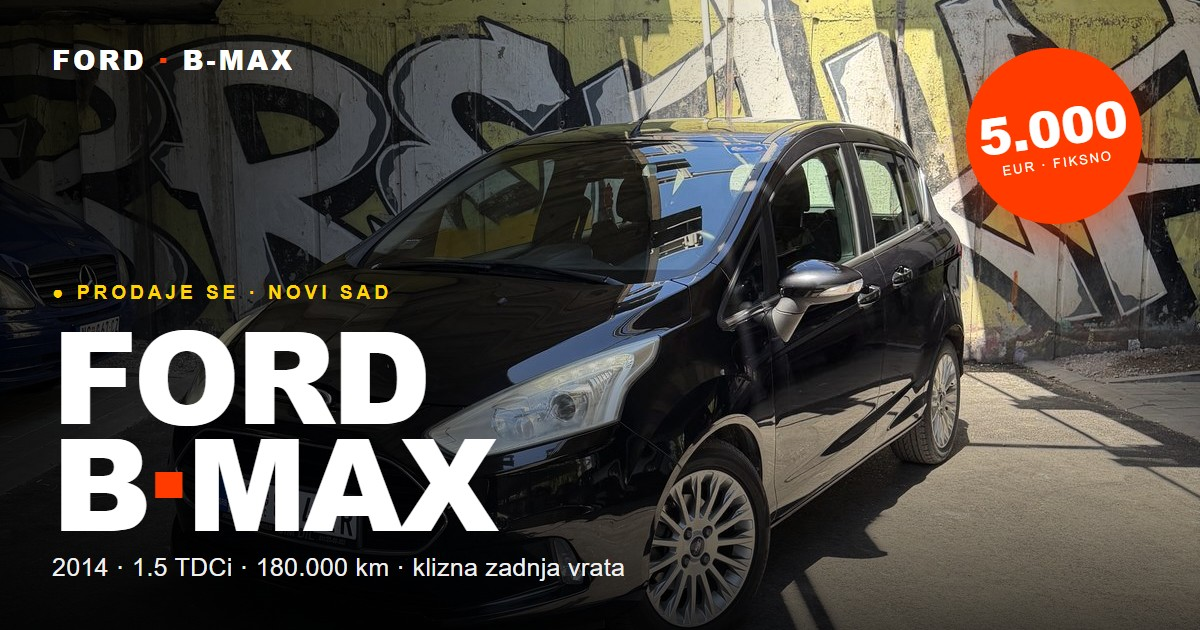
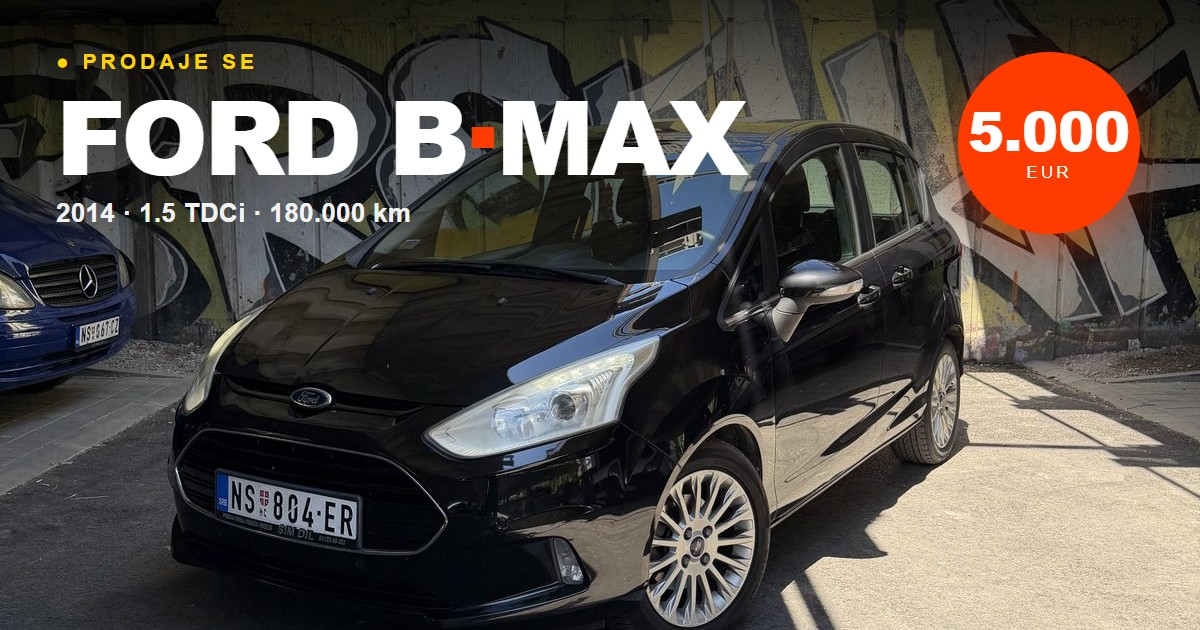
Refine Ford B-Max sale page and share image
- Remove FIKSNO everywhere (price shows just 5.000 EUR / 5.000 €)
- Drop "Sve najvazinije specifikacije..." and "ofarbano i polirano" lines
- Redesign link-share image: single FORD B-MAX title moved to top (no
  duplicate brand), "Prodaje se" only, caption limited to year/engine/mileage,
  no FIKSNO, and the car is no longer covered by text

diff --git a/public/b-max/index.html b/public/b-max/index.html
@@ -7,14 +7,14 @@
 <title>FORD B-MAX · 2014 · 5.000 €</title>
 <link rel="icon" href="/favicon.svg">
 <meta name="theme-color" content="#ff3b00">
-<meta name="description" content="Ford B-Max 1.5 TDCi, 2014, crna metalik, 180.000 km, dizel 4.1 L/100km, Titanium oprema, klizna zadnja vrata. Novi Sad · 5.000 € · 063 299 444.">
+<meta name="description" content="Ford B-Max 1.5 TDCi, 2014, crna metalik, 180.000 km, dizel 4.1 L/100km, Titanium oprema. Novi Sad · 5.000 € · 063 299 444.">
 <!-- Open Graph (WhatsApp, Facebook, Viber, Messenger...) -->
 <meta property="og:type" content="website">
 <meta property="og:locale" content="sr_RS">
 <meta property="og:site_name" content="podovi.online">
 <meta property="og:url" content="https://podovi.online/b-max">
 <meta property="og:title" content="FORD B-MAX · 2014 · 5.000 € · Novi Sad">
-<meta property="og:description" content="Crni Ford B-Max 1.5 TDCi, 180.000 km, dizel, Titanium oprema, klizna zadnja vrata. Fiksno 5.000 €. Pozovi: 063 299 444.">
+<meta property="og:description" content="Crni Ford B-Max 1.5 TDCi, 2014, 180.000 km, dizel, Titanium oprema. 5.000 €. Pozovi: 063 299 444.">
 <meta property="og:image" content="https://podovi.online/b-max/og-image.jpg">
 <meta property="og:image:secure_url" content="https://podovi.online/b-max/og-image.jpg">
 <meta property="og:image:type" content="image/jpeg">
@@ -24,7 +24,7 @@
 <!-- Twitter / X -->
 <meta name="twitter:card" content="summary_large_image">
 <meta name="twitter:title" content="FORD B-MAX · 2014 · 5.000 € · Novi Sad">
-<meta name="twitter:description" content="Crni Ford B-Max 1.5 TDCi, 180.000 km, dizel, Titanium, klizna vrata. Fiksno 5.000 €.">
+<meta name="twitter:description" content="Crni Ford B-Max 1.5 TDCi, 2014, 180.000 km, dizel, Titanium. 5.000 €.">
 <meta name="twitter:image" content="https://podovi.online/b-max/og-image.jpg">
 <style>
   :root{
@@ -194,7 +194,7 @@
     <div class="right">
       <div class="pricetag">
         <div class="p">5.000</div>
-        <div class="pl">EUR · FIKSNO</div>
+        <div class="pl">EUR</div>
       </div>
       <div class="video-wrap">
         <span class="video-tag">● UŽIVO</span>
@@ -212,7 +212,6 @@
         <div class="num">/ 01 BROJEVI</div>
         <h3>Brojevi koji znače.</h3>
       </div>
-      <div class="desc">Sve najvažnije specifikacije na jednom mestu.</div>
     </div>
     <div class="strip">
       <div class="cell"><div class="lbl">Potrošnja</div><div class="val">4.1<span class="unit">L / 100km</span></div></div>
@@ -229,7 +228,7 @@
         <div class="num">/ 02 EKSTERIJER</div>
         <h3>Spolja.</h3>
       </div>
-      <div class="desc">Crna metalik · alu felne · Titanium oprema · ofarbano i polirano.</div>
+      <div class="desc">Crna metalik · alu felne · Titanium oprema.</div>
     </div>
     <div class="mag">
       <div class="tile t1"><img src="/b-max/img_proc/IMG_0936.jpg" alt=""></div>
@@ -295,7 +294,7 @@
       <div class="row"><span class="k">Težina praznog</span><span class="v">1.307 kg</span></div>
       <div class="row"><span class="k">Boja · Oprema</span><span class="v">Crna metalik · Titanium</span></div>
       <div class="row"><span class="k">Registracija</span><span class="v">Novi Sad (NS)</span></div>
-      <div class="row hl"><span class="k">Cena</span><span class="v">5.000 € · FIKSNO</span></div>
+      <div class="row hl"><span class="k">Cena</span><span class="v">5.000 €</span></div>
     </div>
   </div>
 
